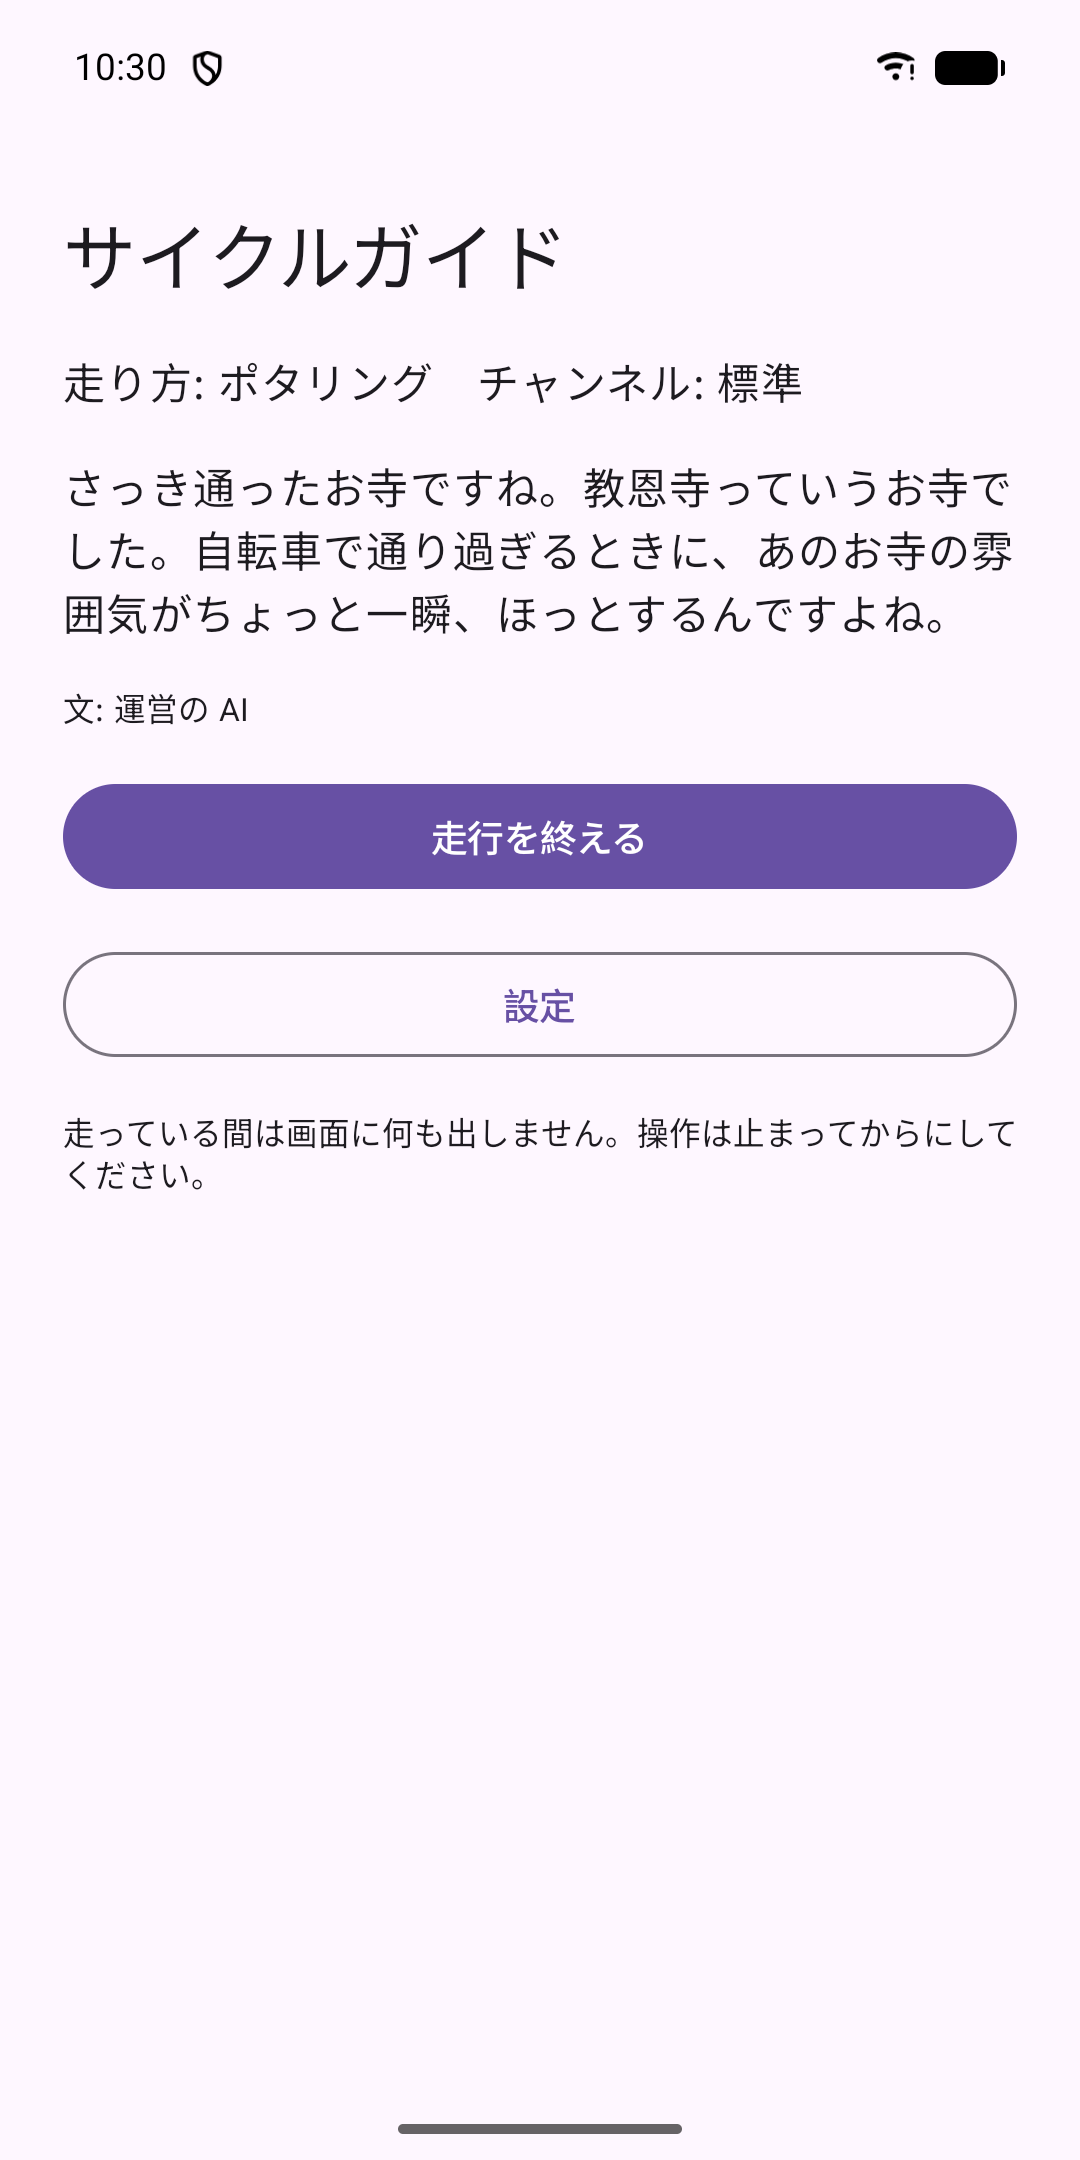
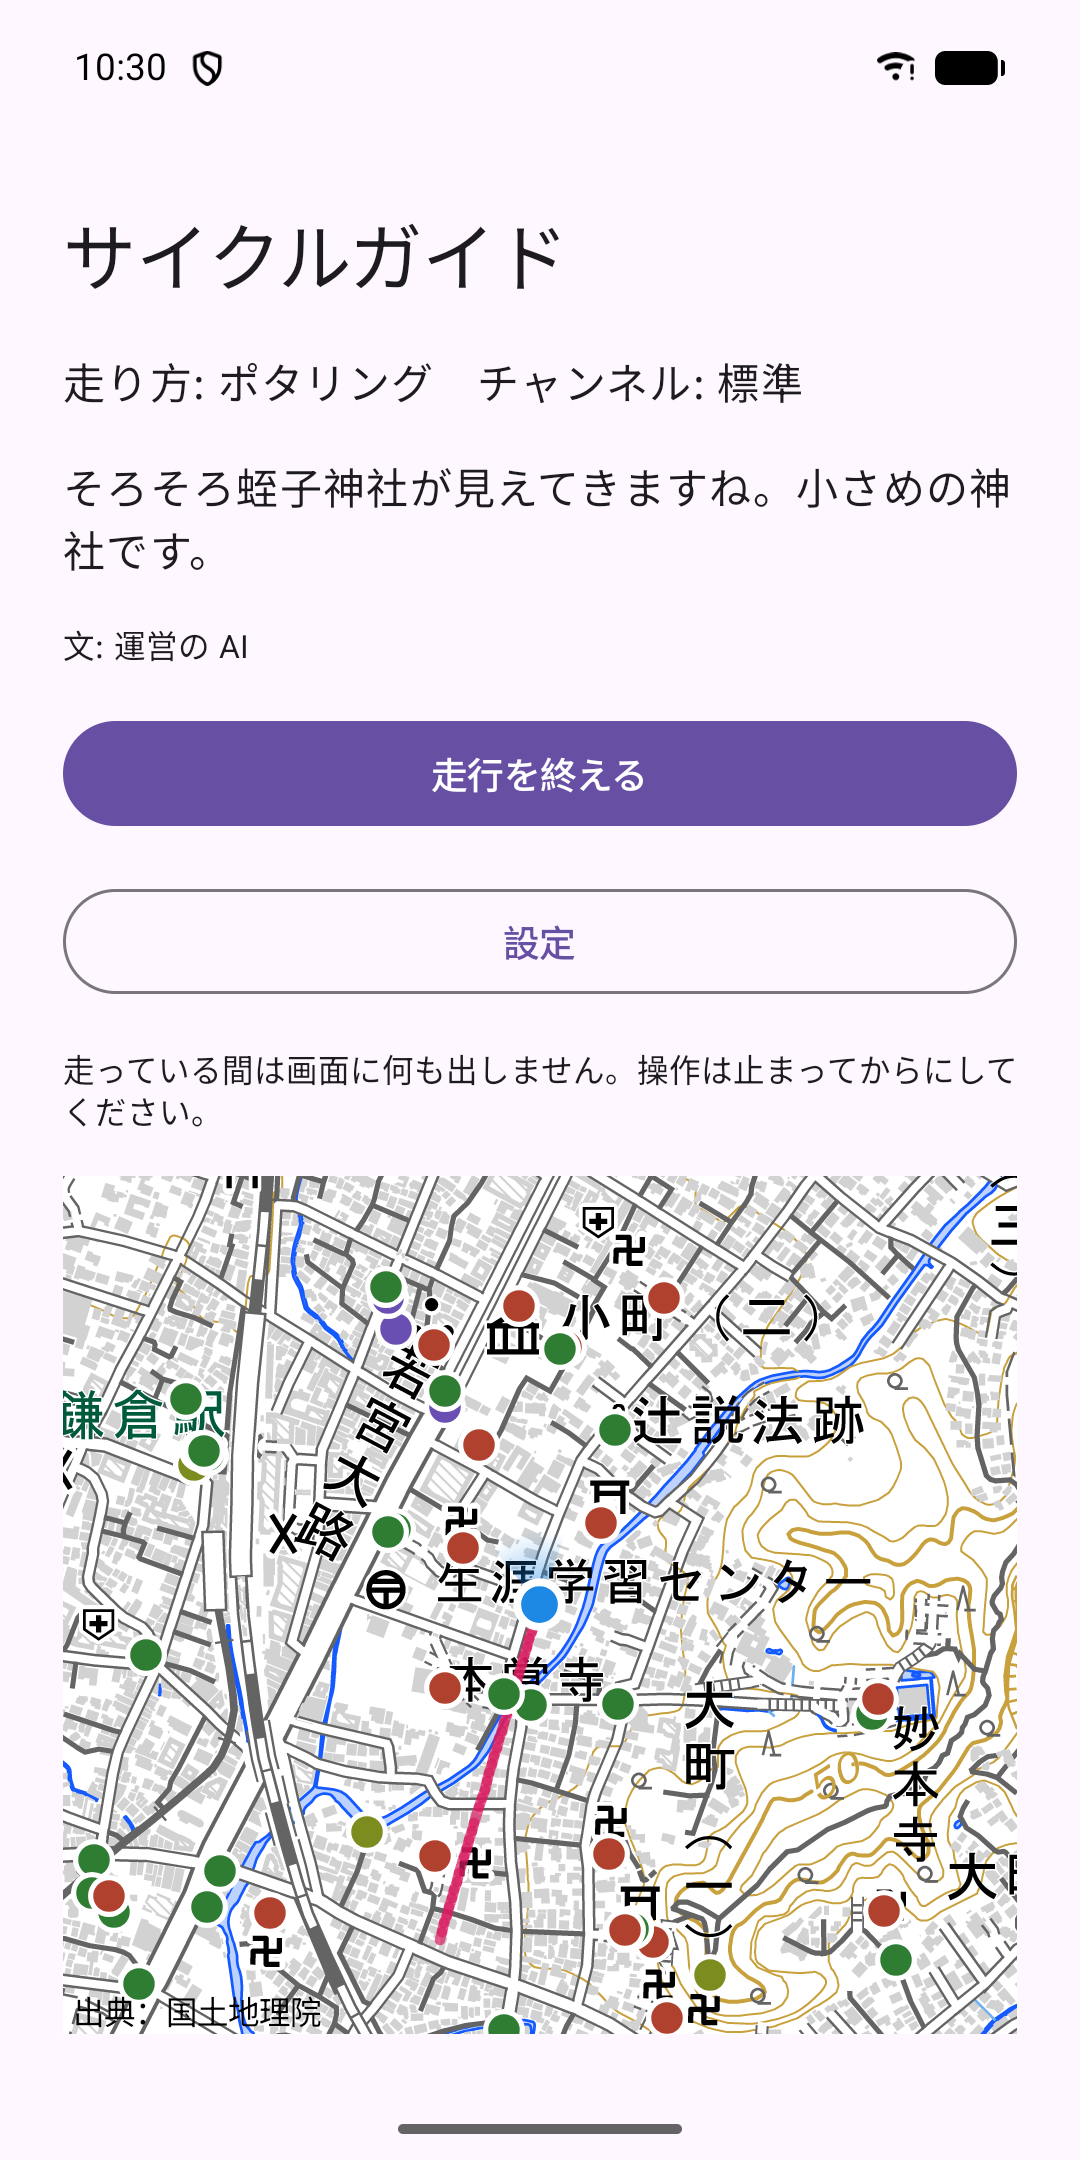
止まっているときの地図を出す

Changed region(s): [[0.0611, 0.2171, 0.9472, 0.9616]]

diff --git a/app/src/main/java/io/github/duwenji/yorisoi/cycleguide/ui/RideMap.kt b/app/src/main/java/io/github/duwenji/yorisoi/cycleguide/ui/RideMap.kt
@@ -1,0 +1,40 @@
+package io.github.duwenji.yorisoi.cycleguide.ui
+
+import androidx.compose.runtime.Composable
+import androidx.compose.runtime.getValue
+import androidx.compose.ui.Modifier
+import androidx.compose.ui.draw.clipToBounds
+import androidx.lifecycle.compose.collectAsStateWithLifecycle
+import io.github.duwenji.yorisoi.cycleguide.CycleApp
+import io.github.duwenji.yorisoi.cycleguide.ride.RideService
+import io.github.duwenji.yorisoi.kit.geo.map.MapStyle
+import io.github.duwenji.yorisoi.kit.geo.map.MapTiles
+import io.github.duwenji.yorisoi.kit.geo.map.SpotItem
+import io.github.duwenji.yorisoi.kit.geo.map.SpotMap
+import io.github.duwenji.yorisoi.kit.geo.map.rememberHeading
+
+/**
+ * The map while stopped on a ride (architecture.md 図 1): where the rider is and faces, the spots
+ * found, and the way ridden. Never while moving (requirements S-1), and not outside a ride, when the
+ * app doesn't use the location (privacy policy 3). The pale GSI map, so spots and the way stand out.
+ */
+@Composable
+fun RideMap(app: CycleApp, modifier: Modifier = Modifier) {
+    val location by app.spots.location.collectAsStateWithLifecycle()
+    val spots by app.spots.spots.collectAsStateWithLifecycle()
+    val walked by RideService.walked.collectAsStateWithLifecycle()
+    SpotMap(
+        tiles = MapTiles.Gsi(MapStyle.GSI_PALE),
+        location = location,
+        heading = rememberHeading(location),
+        spots = spots.map { poi -> SpotItem(poi, location?.let { poi.distanceFrom(it).toInt() }, visitCount = 0) },
+        facilities = emptyList(),
+        walked = walked,
+        route = null,
+        focus = null,
+        onSpotClick = {},
+        onViewportChanged = { _, _, _, _, _ -> },
+        // The map view draws past its bounds otherwise, over the buttons above it.
+        modifier = modifier.clipToBounds(),
+    )
+}

diff --git a/app/src/main/java/io/github/duwenji/yorisoi/cycleguide/ride/RideService.kt b/app/src/main/java/io/github/duwenji/yorisoi/cycleguide/ride/RideService.kt
@@ -111,6 +111,7 @@ class RideService : LifecycleService() {
         app.heading = null
         _state.value = null
         _lastLine.value = null
+        _walked.value = emptyList()
         super.onDestroy()
     }
 
@@ -173,6 +174,7 @@ class RideService : LifecycleService() {
             location.accuracy.takeIf { location.hasAccuracy() },
         )
         s.onLocation(LatLon(location.latitude, location.longitude))
+        if (s.route.size != _walked.value.size) _walked.value = s.route.toList()
         heading = Ahead.heading(location.bearing.takeIf { location.hasBearing() }, motion.speedMps, s.track)
         app.heading = heading
         app.diagnostics.event(
@@ -376,6 +378,11 @@ class RideService : LifecycleService() {
 
         /** The last line said, with its credit when the AI wrote it (platform ADR-AI-ROLES H-15). */
         val lastLine: StateFlow<Line?> = _lastLine.asStateFlow()
+
+        private val _walked = MutableStateFlow<List<LatLon>>(emptyList())
+
+        /** The way ridden so far on the current ride, for the map; empty when there is no ride. */
+        val walked: StateFlow<List<LatLon>> = _walked.asStateFlow()
 
         fun start(context: Context) {
             context.startForegroundService(Intent(context, RideService::class.java))

diff --git a/app/src/main/java/io/github/duwenji/yorisoi/cycleguide/companion/RideSession.kt b/app/src/main/java/io/github/duwenji/yorisoi/cycleguide/companion/RideSession.kt
@@ -18,6 +18,10 @@ class RideSession(val startedAt: Long) {
     var distanceM = 0.0
         private set
 
+    /** The way ridden so far, oldest first, for the map; thinned to [MAX_ROUTE_POINTS] on a long ride. */
+    val route: List<LatLon> get() = _route
+    private val _route = mutableListOf<LatLon>()
+
     var lastSpokeAt = 0L
         private set
     var lastSpotTalkAt = 0L
@@ -74,6 +78,12 @@ class RideSession(val startedAt: Long) {
         }
         _track.addLast(p)
         while (_track.size > TRACK_POINTS) _track.removeFirst()
+        _route += p
+        if (_route.size > MAX_ROUTE_POINTS) {
+            val thinned = RouteGeometry.thin(_route, MAX_ROUTE_POINTS / 2)
+            _route.clear()
+            _route += thinned
+        }
     }
 
     fun alreadyTalked(poi: Poi): Boolean = poi.id in talkedSpots
@@ -127,6 +137,7 @@ class RideSession(val startedAt: Long) {
     companion object {
         const val TRACK_POINTS = 30
         const val RECENT_LINES = 4
+        const val MAX_ROUTE_POINTS = 3000
         const val MIN_STEP_M = 3.0
 
         /** After a channel switch, its greeting has the floor this long. */

diff --git a/app/src/main/java/io/github/duwenji/yorisoi/cycleguide/ui/MainScreen.kt b/app/src/main/java/io/github/duwenji/yorisoi/cycleguide/ui/MainScreen.kt
@@ -42,6 +42,8 @@ fun MainScreen(
     onStart: () -> Unit,
     onStop: () -> Unit,
     onSettings: () -> Unit,
+    /** The map while stopped on a ride; null when there is none to show. */
+    map: (@Composable (Modifier) -> Unit)? = null,
 ) {
     // The rules on phones and earphones, before the first ride (requirements S-3, S-5, AC-8).
     var noticing by remember { mutableStateOf(false) }
@@ -66,6 +68,7 @@ fun MainScreen(
             }
             OutlinedButton(onClick = onSettings, modifier = Modifier.fillMaxWidth()) { Text("設定") }
             Text("走っている間は画面に何も出しません。操作は止まってからにしてください。", style = MaterialTheme.typography.bodySmall)
+            map?.invoke(Modifier.fillMaxWidth().weight(1f))
         }
     }
     if (noticing) {

diff --git a/app/src/main/java/io/github/duwenji/yorisoi/cycleguide/CycleApp.kt b/app/src/main/java/io/github/duwenji/yorisoi/cycleguide/CycleApp.kt
@@ -27,6 +27,7 @@ import kotlinx.coroutines.SupervisorJob
 import kotlinx.coroutines.flow.SharingStarted
 import kotlinx.coroutines.flow.map
 import kotlinx.coroutines.flow.stateIn
+import org.osmdroid.config.Configuration
 import java.io.File
 
 /**
@@ -60,6 +61,8 @@ class CycleApp : Application() {
 
     override fun onCreate() {
         super.onCreate()
+        // The map's tile requests name the app (osmdroid's user agent).
+        Configuration.getInstance().userAgentValue = "CycleGuide/${BuildConfig.VERSION_NAME} (Android)"
         val relay = OperatorAi.create(this, BuildConfig.AI_RELAY_URL, BuildConfig.PLAY_CLOUD_PROJECT_NUMBER)
         settings = SettingsRepository(this, operatorAvailable = relay != null)
         ai = AiGateway({ settings.settings.value.connection }, AiUsage.of(this), relay)

diff --git a/app/src/main/java/io/github/duwenji/yorisoi/cycleguide/ui/SettingsScreen.kt b/app/src/main/java/io/github/duwenji/yorisoi/cycleguide/ui/SettingsScreen.kt
@@ -188,7 +188,7 @@ private fun AboutSection(settings: RideSettings, onChange: ((RideSettings) -> Ri
     }
     Column(Modifier.padding(bottom = 32.dp), verticalArrangement = Arrangement.spacedBy(8.dp)) {
         Text("このアプリについて", style = MaterialTheme.typography.titleMedium)
-        Text("スポット・信号: © OpenStreetMap contributors　天気: Open-Meteo.com", style = MaterialTheme.typography.bodySmall)
+        Text("地図: 国土地理院　スポット・信号: © OpenStreetMap contributors　天気: Open-Meteo.com", style = MaterialTheme.typography.bodySmall)
         Text(
             "バージョン ${BuildConfig.VERSION_NAME}" + when {
                 settings.developerMode -> "（開発者モード）"

diff --git a/app/src/test/java/io/github/duwenji/yorisoi/cycleguide/companion/RideSessionTest.kt b/app/src/test/java/io/github/duwenji/yorisoi/cycleguide/companion/RideSessionTest.kt
@@ -31,6 +31,15 @@ class RideSessionTest {
     }
 
     @Test
+    fun `the way ridden is kept for the map, thinned on a long ride`() {
+        val s = RideSession(start)
+        repeat(RideSession.MAX_ROUTE_POINTS + 1) { i -> s.onLocation(RouteGeometry.destination(here, 0.0, i * 10.0)) }
+        assertTrue(s.route.size <= RideSession.MAX_ROUTE_POINTS)
+        assertEquals(here, s.route.first())
+        assertEquals(RideSession.MAX_ROUTE_POINTS * 10.0, s.distanceM, 1.0)
+    }
+
+    @Test
     fun `a spot kept for later is remembered, and said once at a stop`() {
         val s = RideSession(start)
         s.carriedOut(RideDecision.Defer(shrine), start + 1_000)

diff --git a/app/src/main/java/io/github/duwenji/yorisoi/cycleguide/ui/MainActivity.kt b/app/src/main/java/io/github/duwenji/yorisoi/cycleguide/ui/MainActivity.kt
@@ -62,6 +62,7 @@ class MainActivity : ComponentActivity() {
                         },
                         onStop = { RideService.stop(this) },
                         onSettings = { showSettings = true },
+                        map = if (state != null) { modifier -> RideMap(app, modifier) } else null,
                     )
                 }
             }

diff --git a/docs/play-console.md b/docs/play-console.md
@@ -50,8 +50,8 @@ Google Play Console に入れる答え。入れ方（画面の場所、データ
 ■ 進む先の見どころ
 進む方向の少し先にある寺社・史跡・公園・博物館などを、着く前に短く案内します。間に合わなかった見どころは、次に止まったときに話します。
 
-■ 止まったときの話
-信号待ちでは少し長めに、休憩ではもう少しゆっくり話します。信号の近くや速く走っているときは、天気と日の入りの知らせのほかは話しません。
+■ 止まったときの話と地図
+信号待ちでは少し長めに、休憩ではもう少しゆっくり話します。止まっている間は、見どころと走ってきた道を地図に出します。信号の近くや速く走っているときは、天気と日の入りの知らせのほかは話しません。
 
 ■ 安全のための知らせ
 1 時間以内の雨や雷雨、日の入りが近いこと（ライトの点灯）を知らせます。
@@ -79,7 +79,7 @@ Google Play Console に入れる答え。入れ方（画面の場所、データ
 #### スクリーンショット
 
 1. `01-main.png`: 走り始める前のメインの画面（走り方とチャンネル）
-2. `02-spoken.png`: 止まったときに、AI が話した見どころの案内（作者つき）
+2. `02-spoken.png`: 止まったときに、AI が話した見どころの案内（作者つき）と、見どころ・走った道を出した地図
 3. `03-settings.png`: 走り方の設定（ポタリングとロングライド、値の調整）
 4. `04-safety.png`: 初めて走る前の注意
 
@@ -96,7 +96,7 @@ Google Play Console に入れる答え。入れ方（画面の場所、データ
 | アプリのアクティビティ > その他のユーザー作成コンテンツ（走行の状況のまとめを AI へ） | はい | いいえ | はい | 任意（AI を使うときだけ） | アプリの機能 |
 | デバイスまたはその他の ID（運営の AI の中継へのインストール ID） | はい | いいえ | いいえ | 任意（運営の AI を使うときだけ） | アプリの機能、不正行為の防止・セキュリティ |
 
-- 位置は Overpass（見どころ・信号）と Open-Meteo（天気）に送る。AI には送らない
+- 位置は Overpass（見どころ・信号）と Open-Meteo（天気）に送る。地図を出すときは、表示している範囲が国土地理院の地図タイルに伝わる。AI には送らない
 - 送るデータはすべて HTTPS。アカウントはない。データの削除は「いいえ（ただしユーザーデータは 90 日以内に自動で削除）」
 - 申告しないもの: 設定・API キー・開発者モードの記録は端末の外に出ない。名前・メールアドレス・端末の ID・診断情報は扱わない
 

diff --git a/docs/architecture.md b/docs/architecture.md
@@ -20,7 +20,7 @@ SanpoGuide と同じ作りを基本にします。DI ライブラリは使わず
 flowchart LR
   subgraph UI["画面（ui）"]
     MainActivity
-    MainScreen["MainScreen<br/>地図・発言カード・チャンネルの選択"]
+    MainScreen["MainScreen<br/>最後の話・地図（止まっているときだけ）"]
     RidingScreen["RidingScreen<br/>「走行中」だけ"]
     SettingsScreen["SettingsScreen<br/>走り方・値の調整・AI"]
     HistoryScreen["HistoryScreen<br/>履歴・振り返り（段階 2）"]
@@ -122,6 +122,7 @@ flowchart LR
 
 - `MainActivity` は `Motion` を見て、`MOVING` のときは `RidingScreen`（「走行中」とだけ出す暗い画面）にします。`FLAG_KEEP_SCREEN_ON` は付けません
 - 常駐の通知は、`MOVING` の間は操作のボタンを外した形に差し替えます
+- 地図（`RideMap`。kit-geo の `SpotMap`、地理院 淡色）は、走行中に止まっているときだけメインの画面に出します。現在地と向き・見つかった見どころ・今回走った道（`RideSession.route`）。走行の外では位置を使わないので出しません
 - `EarphoneWatch` は `AudioDeviceCallback` でイヤホン（Bluetooth・有線・USB）を見つけます。つながっていれば、止まっているときに走行ごとに一度、注意を読み上げます（`EarphoneRule`）。初めて走り始める前の注意は、開始の画面のダイアログで出します
 
 ### 段階 3 の部品

diff --git a/docs/privacy-policy.md b/docs/privacy-policy.md
@@ -27,6 +27,7 @@
 | AI サービス（Anthropic・DeepSeek・OpenAI・Google のうち、利用者が設定で選んだもの、または利用者が指定した OpenAI 互換のサービス。設定で「自分の API キー」を選んだときだけ） | 見どころの案内と話しかけを作るとき | 見どころの名前・種類・距離・OpenStreetMap の情報（宗教・史跡の種類・Wikipedia の項目名など）、日時・天気・走り方、走った時間・距離、今回案内した場所の名前、最近話した内容。利用者自身の API キーを使います。**緯度経度と走った経路は送りません** |
 | OpenStreetMap の Overpass API（公開サーバー） | 進む先の見どころ・信号の位置を探すとき | 現在地から少し先の範囲（緯度経度） |
 | Open-Meteo | 天気・予報・日の入り時刻を調べるとき | 現在地の緯度経度 |
+| 国土地理院の地図タイル | 走行中に止まって、地図を表示するとき | 表示している範囲 |
 
 いずれの通信でも、利用者の名前・メールアドレス・端末の識別子は送りません（運営の AI の中継に送るインストール ID は、本アプリを入れ直すと変わる値です）。ただし、通信の性質上、各サービスには端末の IP アドレスが伝わります。
 

diff --git a/docs/TODO.md b/docs/TODO.md
@@ -6,5 +6,4 @@
 
 - [ ] Google Play の内部テスト（[release.md](release.md)）: 鍵・署名・プライバシーポリシー・データ セーフティ・掲載情報・素材・申告の動画・AAB 1.0.0 はそろった。プライバシーポリシーは GitHub Pages に公開済み。アプリは有料として作成済み。残りは、開発者のサービス アカウントの権限・テスター・申告、API での登録と審査への送信
 - [ ] 実機での確認（開発者）: 電池（AC-12）、スピーカーとイヤホンの注意（AC-8）、画面を消して 30 分（AC-13）
-- [ ] 地図の画面（内部テストのあと）
 - [ ] 速度の閾値（設計 A-3）を、エミュレータと実機の記録で見直す
